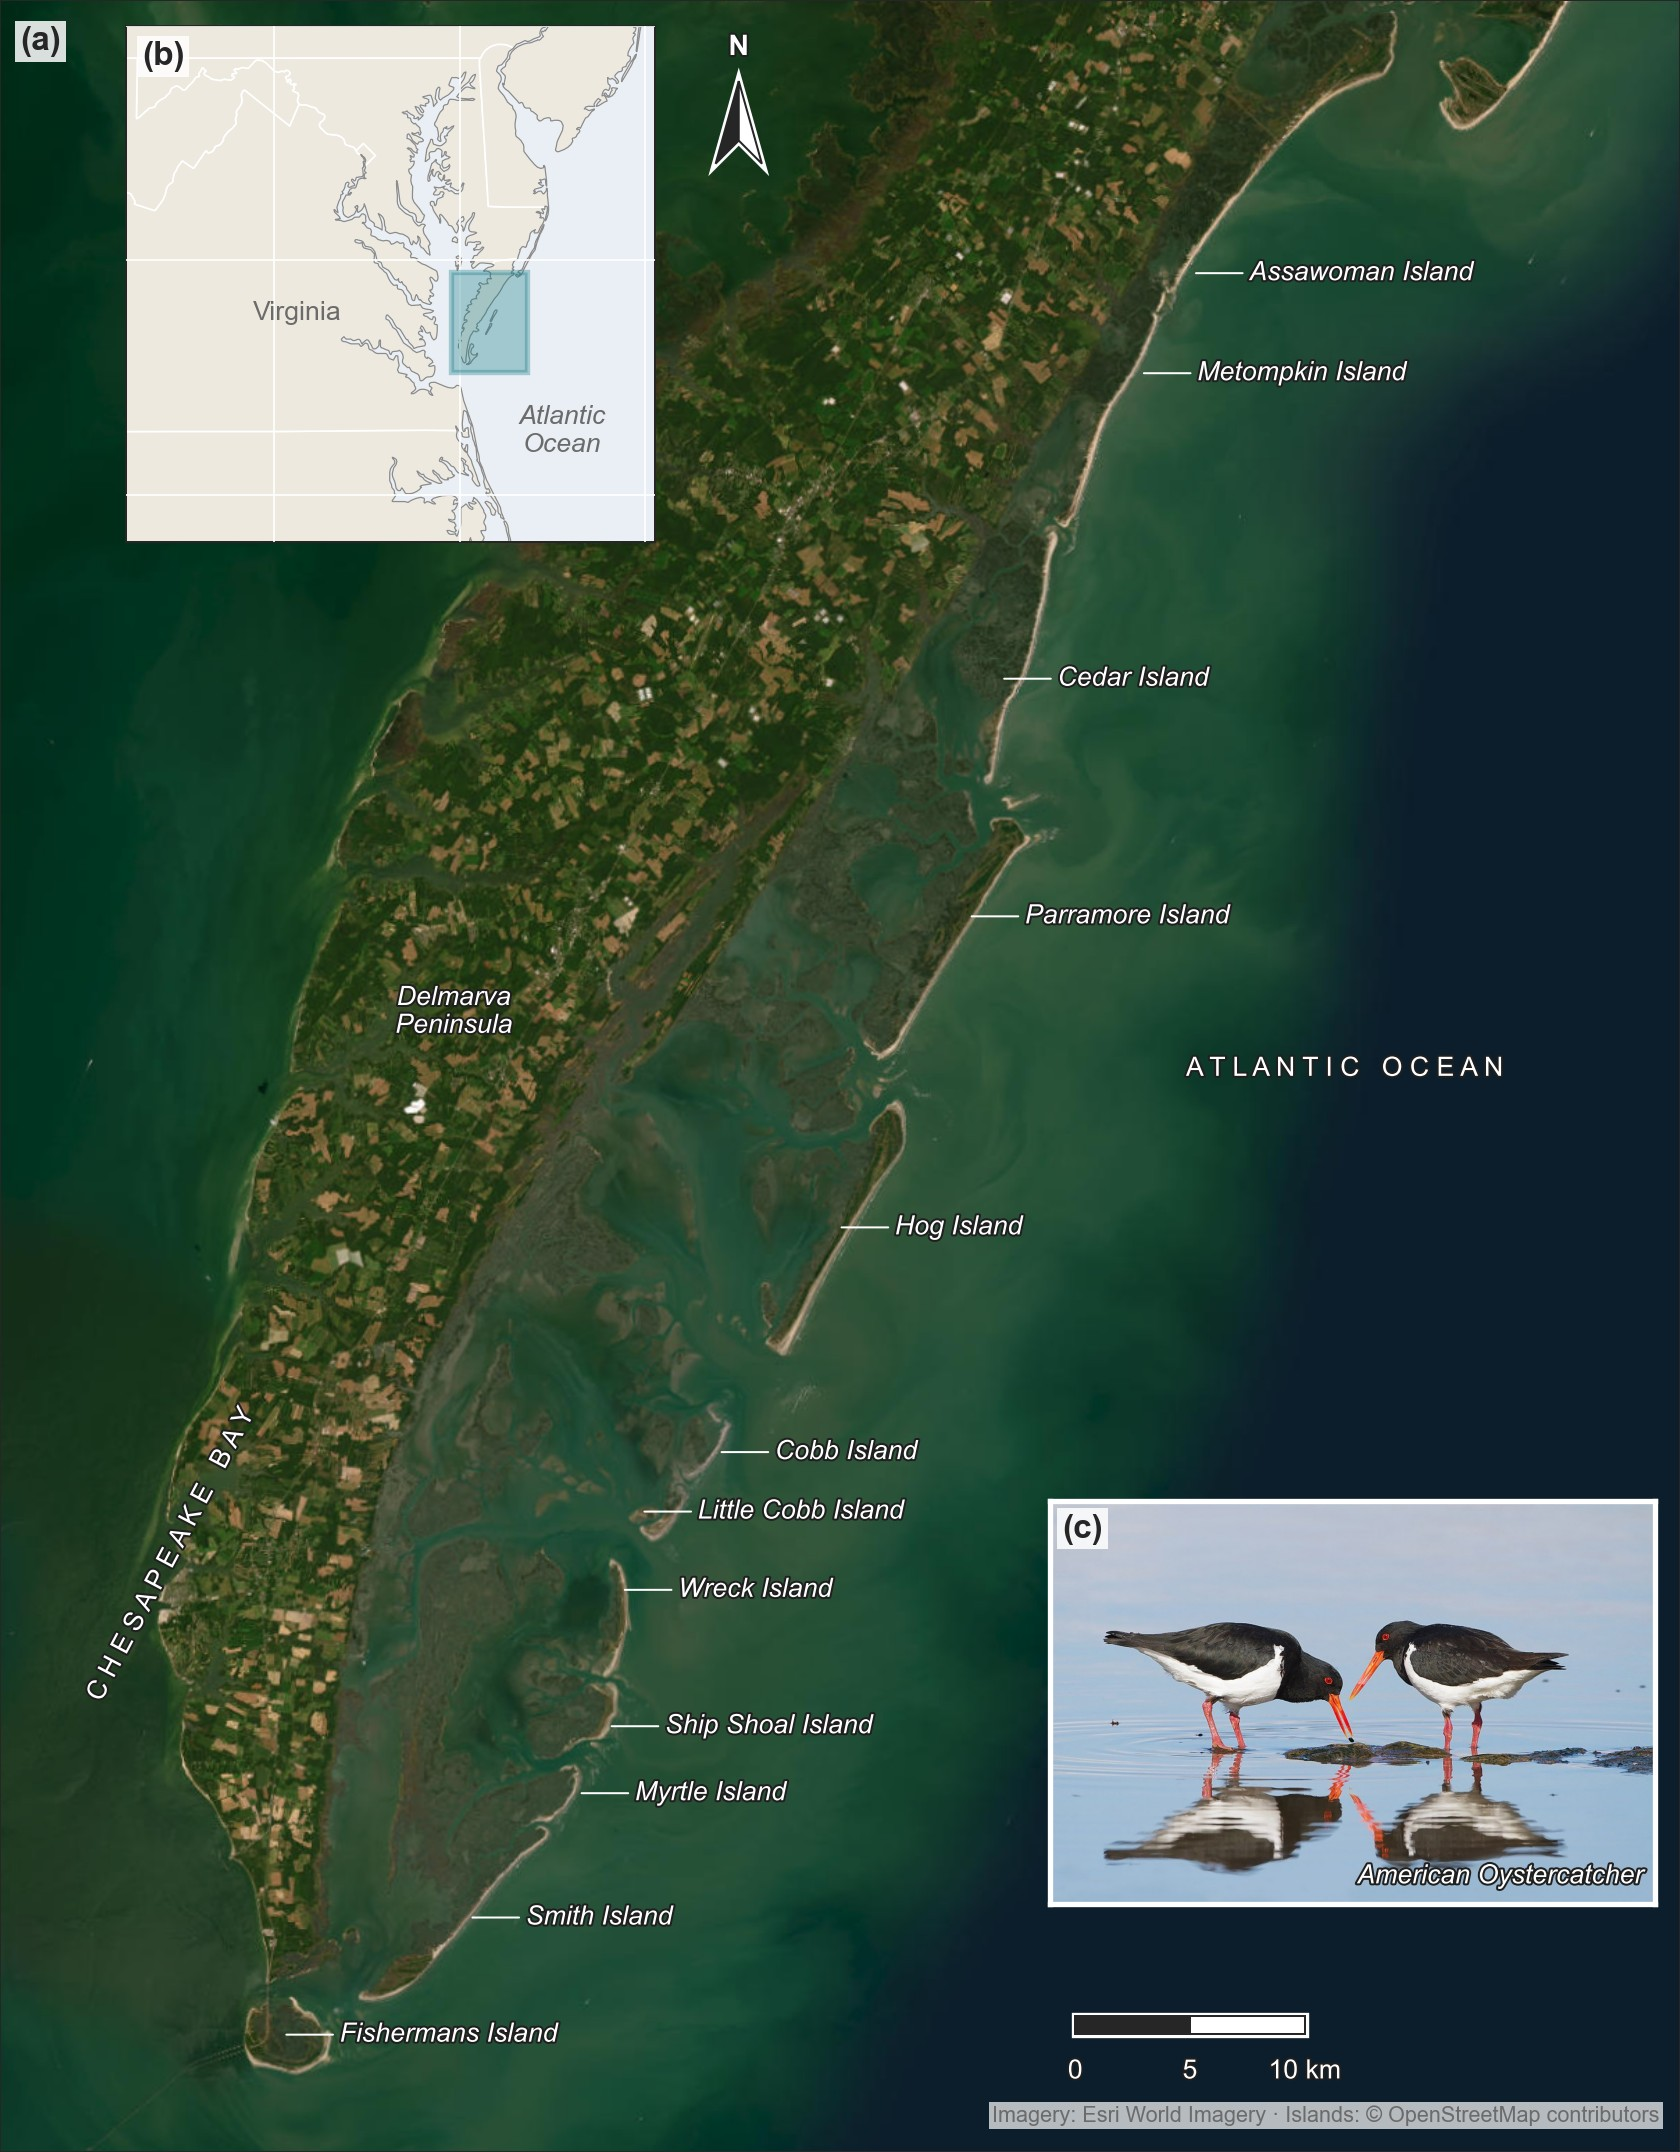
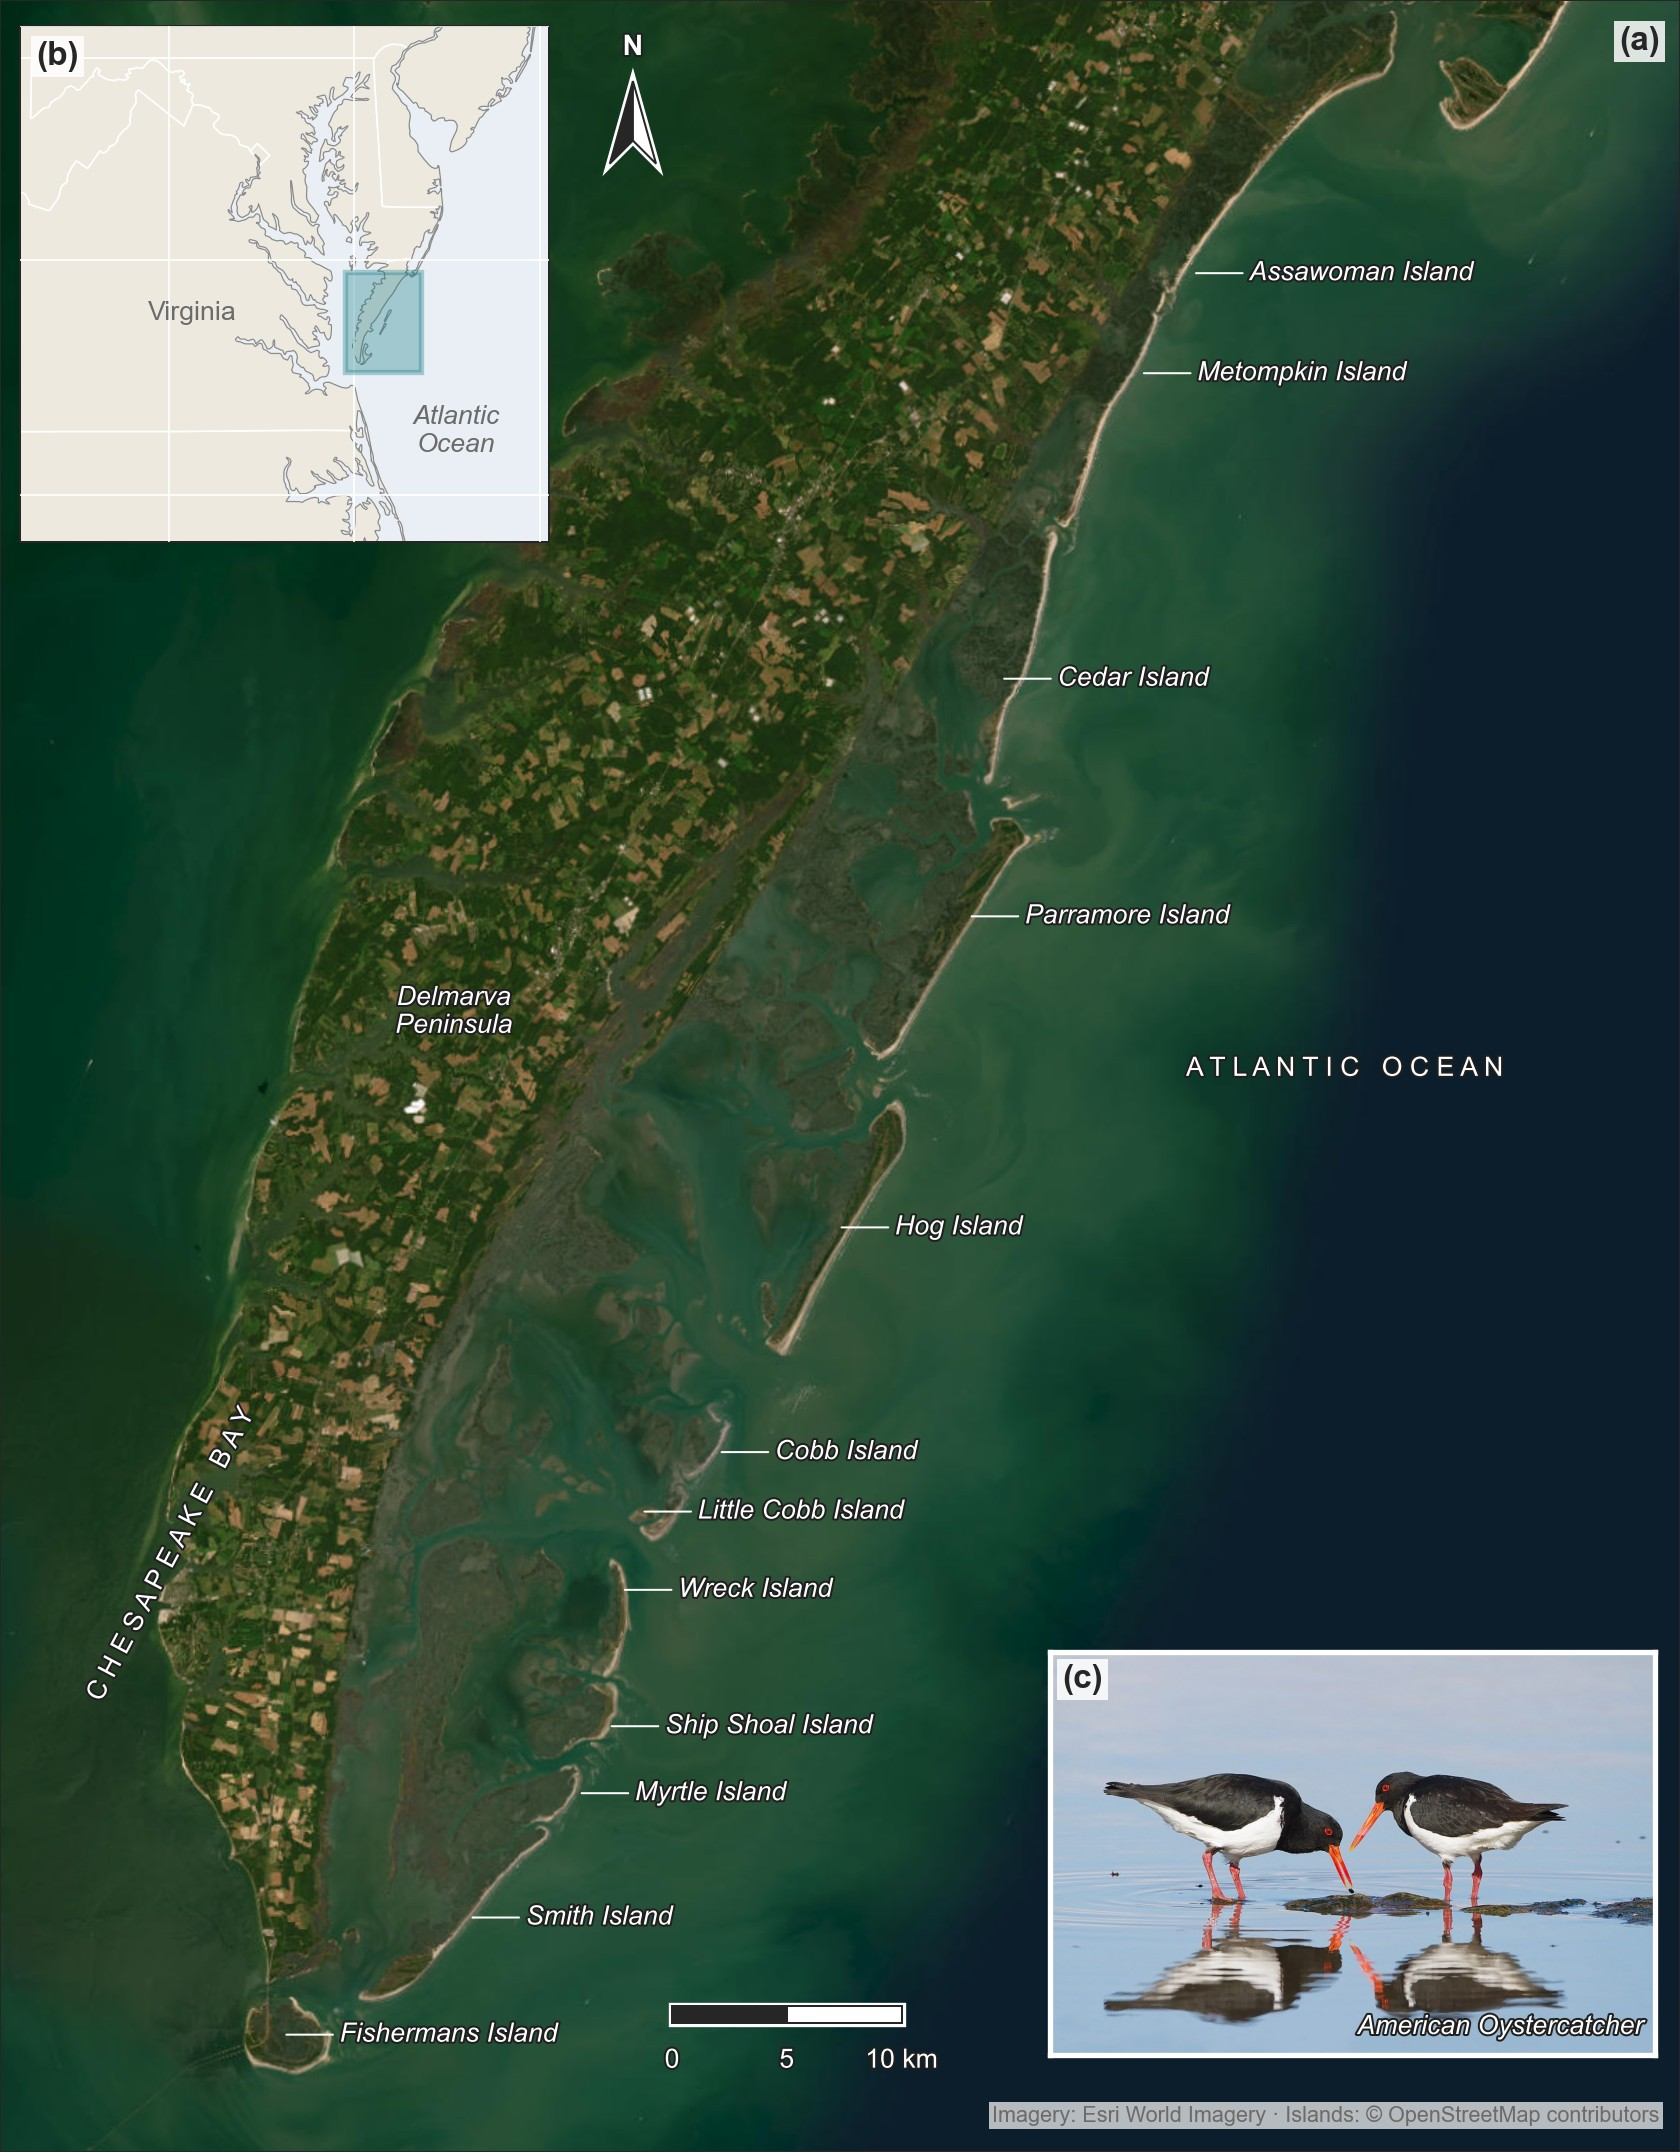
Rearrange the Virginia Coast Reserve map
Locator inset upper left with the north arrow beside it, panel letter upper right, the oystercatcher photo lower, and the scale bar in open water clear of the islands.

diff --git a/tools/vcr_islands_map.py b/tools/vcr_islands_map.py
@@ -171,23 +171,23 @@ def main() -> None:
     ax.text(0.05, 0.21, spaced_caps("Chesapeake Bay"), transform=ax.transAxes, ha="left", rotation=62, **TEXT)
     ax.text(0.27, 0.52, "Delmarva\nPeninsula", transform=ax.transAxes, ha="center", fontstyle="italic", **TEXT)
 
-    # Top row: (a), the locator (b), then the north arrow, all on one top margin
+    # Top row: the locator (b) upper left with the north arrow beside it, (a) upper right, one top margin
     top = 0.988
-    letter(ax, 0, 0.012, top)
+    letter(ax, 0, 0.988, top, ha="right")
     ih = 0.24
     iw = ih * fig.get_size_inches()[1] / fw * 1.15
-    ax_in = fig.add_axes([0.075, top - ih, iw, ih])
+    ax_in = fig.add_axes([0.012, top - ih, iw, ih])
     locator(ax_in, (LON0, LON1, LAT0, LAT1))
     ax_in.apply_aspect()
     letter(ax_in, 1, 0.03, 0.97)
     p = ax_in.get_position()
     north_dart(ax, (x0 + (p.x1 + 0.05) * (x1 - x0), y0 + (top - 0.045) * (y1 - y0)))
 
-    # (c) the oystercatcher, framed over open ocean, lower right
+    # (c) the oystercatcher, framed over open ocean, lower right; the scale bar in open water beside it
     photo = Image.open(PHOTO).convert("RGB")
     pw = 0.36
     ph = pw * fw / fig.get_size_inches()[1] * photo.height / photo.width
-    ax_ph = fig.add_axes([0.985 - pw, 0.115, pw, ph])
+    ax_ph = fig.add_axes([0.985 - pw, 0.045, pw, ph])
     ax_ph.imshow(photo)
     ax_ph.set_xticks([])
     ax_ph.set_yticks([])
@@ -198,7 +198,7 @@ def main() -> None:
     ax_ph.text(0.98, 0.04, "American Oystercatcher", transform=ax_ph.transAxes, ha="right", va="bottom",
                fontstyle="italic", **TEXT)
 
-    scale_bar(ax, 0.64, 0.055)
+    scale_bar(ax, 0.40, 0.06)
     ax.text(0.988, 0.012, "Imagery: Esri World Imagery · Islands: © OpenStreetMap contributors",
             transform=ax.transAxes, ha="right", va="bottom", fontsize=6.5, color=INK_MUTED, zorder=25,
             bbox=dict(facecolor="white", alpha=0.7, edgecolor="none", boxstyle="square,pad=0.15"))
